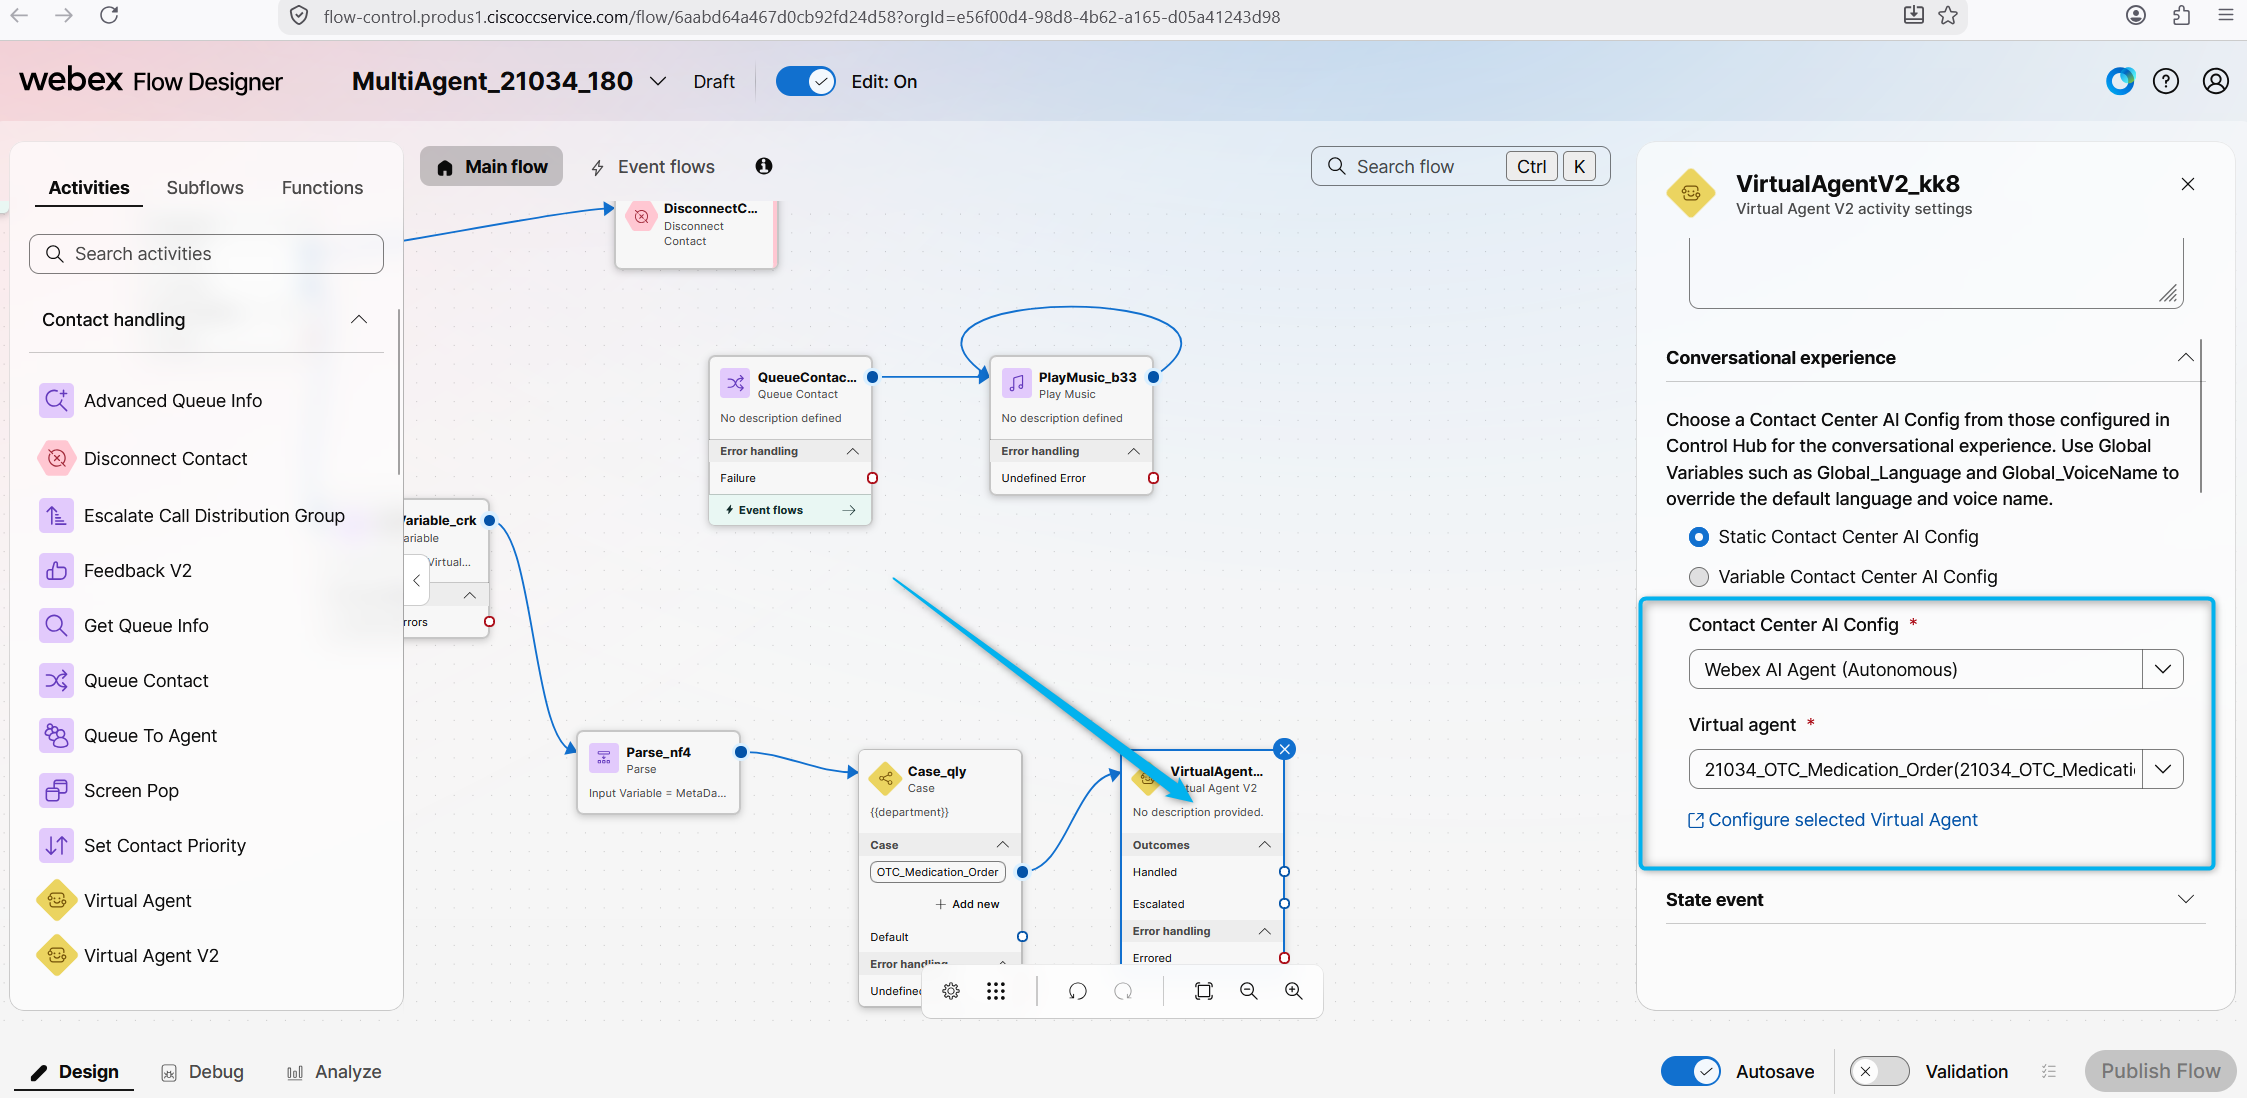
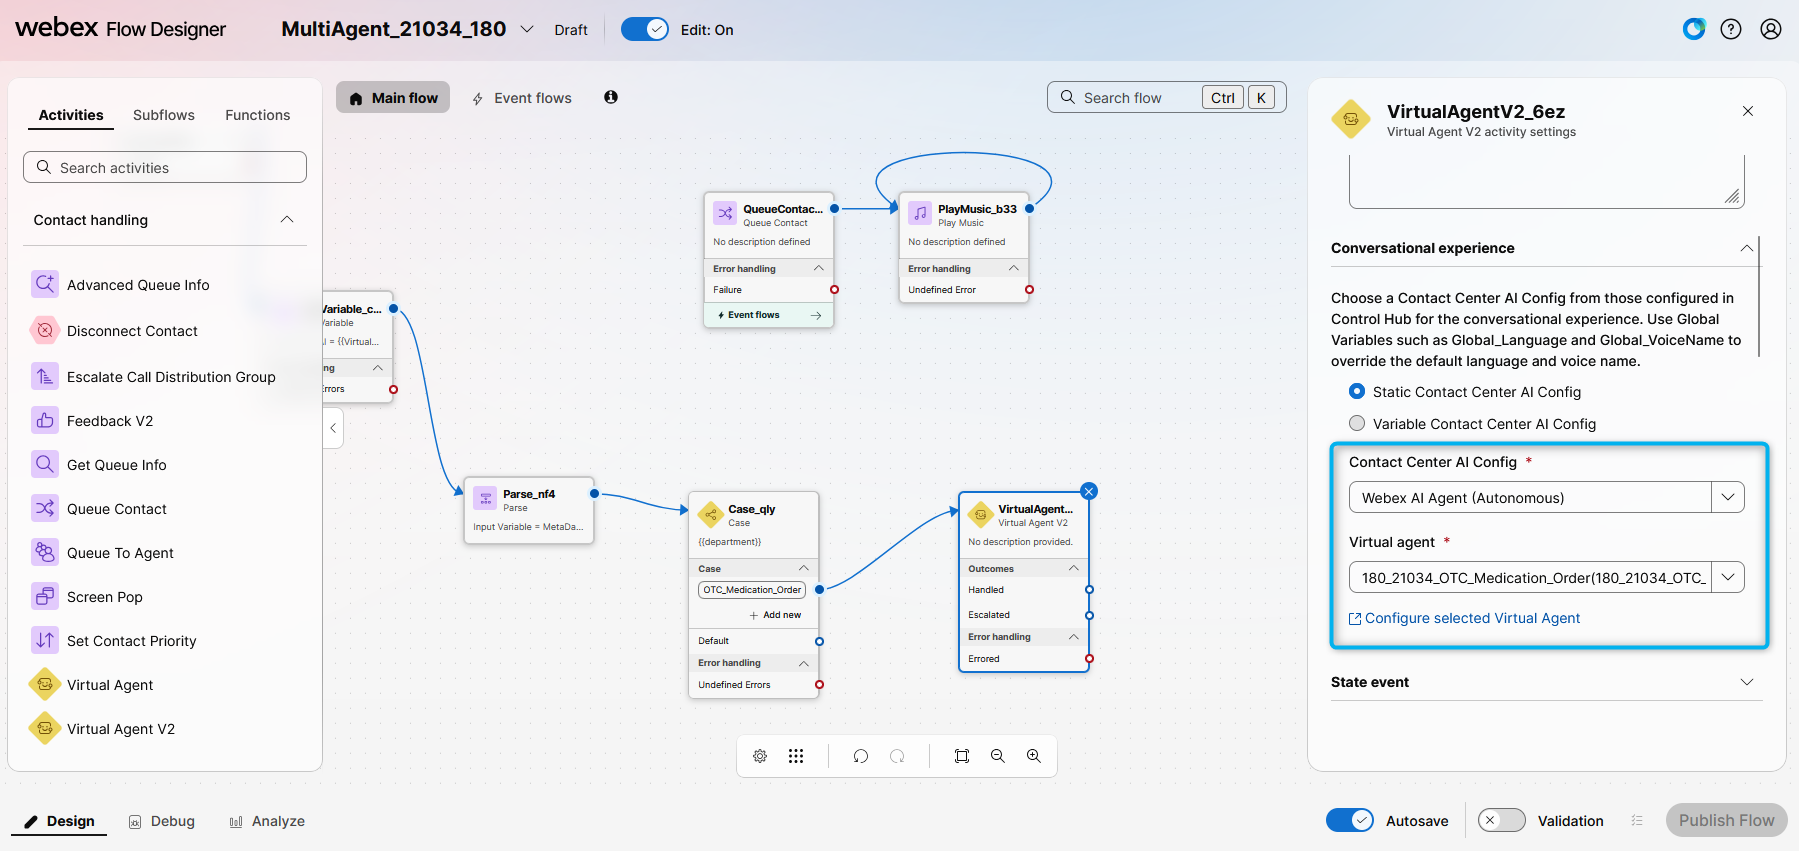
Clarify Multi Agentic Mission 1 copy-agent steps, tests, and attendee agent names.

diff --git a/docs/main/Multi_Agentic_Mission1.md b/docs/main/Multi_Agentic_Mission1.md
@@ -53,16 +53,25 @@ Configure a Transfer action on the **Concierge AI Agent** so that when the calle
 This copy is the second AI Agent in the multi-agent flow. Callers who want to order OTC medication are transferred from the Concierge to this agent.
 
 1. In **Webex AI Agent Studio**, go to **AI Agents**.
+   ![Profiles](../graphics/Lab1_AI_Agent/11.copy_1.gif)
 
-2. Search for the preconfigured Pharmacy Assistant agent **<copy>21034_Pharmacy_Assistant</copy>**.
+2. Search for the preconfigured Pharmacy Assistant agent **<copy>21034_OTC_Medication_Order_Template</copy>** and export the agent.
+   ![Profiles](../graphics/Lab1_AI_Agent/11.copy_2.png)
 
-3. Open the agent menu and select **Copy**.
+3. Click on **Import agent**.
+   ![Profiles](../graphics/Lab1_AI_Agent/11.copy_3.png)
 
-4. Name the copied agent **<copy><w class="attendee"></w>\_21034_OTC_Medication_Order</copy>** and save the copy.
+4. Click on **Upload** and select the file you just downloaded in step 2.
+   ![Profiles](../graphics/Lab1_AI_Agent/11.copy_4.png)
 
-5. Open **<copy><w class="attendee"></w>\_21034_OTC_Medication_Order</copy>** and confirm it is configured to complete OTC medication orders.
+5. Name the copied agent **<copy><w class="attendee"></w>\_21034_OTC_Medication_Order</copy>** and click **Import**.
+   ![Profiles](../graphics/Lab1_AI_Agent/11.copy_5.png)
 
 6. **Publish** the copied agent.
+   ![Profiles](../graphics/Lab1_AI_Agent/11.copy_6.png)
+
+7. (<span style="color: red;"><strong>Read Only</strong></span>) This AI Agent is already preconfigured with a **Fulfillment** action that collects the variables needed for an OTC order. Click **Actions** and open **Create_New_Order** to review it. Do not change this agent. You will reuse this configuration as the second AI Agent in the voice flow.
+   ![Profiles](../graphics/Lab1_AI_Agent/11.copy_7.png)
 
 ### Task 3. Configure voice flow to transfer callers to the OTC Medication Order agent
 
@@ -85,7 +94,7 @@ This copy is the second AI Agent in the multi-agent flow. Callers who want to or
 6. Connect **Set Variable** block to the **Queue** node for now. **Validate** and **Publish** the Flow.
    ![Profiles](../graphics/Lab1_AI_Agent/11.13.gif)
 
-7. Place a test call to the number that is related to your Channel **<copy><w class="attendee"></w>\_21034_Channel</copy>**. During the conversation with the Concierge AI Agent **ask to order OTC medication**. The call should go to the only Queue that is currently configured in the flow.
+7. Place a test call to the number assigned to your Channel **<copy><w class="attendee"></w>\_21034_Channel</copy>**. Talk to the Concierge AI Agent and ask to order OTC medication. For example: **<copy>I need some ibuprofen delivered to my hotel</copy>**. At this point the call should still go to the queue, because the specialist agent is not connected in the flow yet.
 
 8. After the call is completed, click on Debug and review the metadata in the Set Variable block.
    ![Profiles](../graphics/Lab1_AI_Agent/11.14.gif)
@@ -125,7 +134,7 @@ This copy is the second AI Agent in the multi-agent flow. Callers who want to or
 17. Click on this new **VirtualAgentV2** node and select the following:<br>
 
     > Contact Center AI Config: **Webex AI Agent**<br>
-    > Virtual Agent: **<copy>21034_OTC_Medication_Order</copy>**<br>
+    > Virtual Agent: **<copy><w class="attendee"></w>\_21034_OTC_Medication_Order</copy>**<br>
 
     ![Profiles](../graphics/Lab1_AI_Agent/11.21.png)
 
@@ -139,9 +148,9 @@ This copy is the second AI Agent in the multi-agent flow. Callers who want to or
     }
     ```
 
-    Enable this on the **receiving** agent — the new **VirtualAgentV2** node for **21034_OTC_Medication_Order**. Do **not** add it to the Concierge agent's VirtualAgentV2 node.
+    Enable this on the **receiving** agent — the new **VirtualAgentV2** node for **<copy><w class="attendee"></w>\_21034_OTC_Medication_Order</copy>**. Do **not** add it to the Concierge agent's VirtualAgentV2 node.
 
-    This setting is required for **multi-agent orchestration**. When the Concierge transfers the caller, Webex already shares the conversation history with **21034_OTC_Medication_Order**. With `dynamic_welcome_message` set to `true`, that specialist agent **skips its static welcome prompt**, so the caller does not hear a second greeting. The OTC agent continues the same conversation.
+    This setting is required for **multi-agent orchestration**. When the Concierge transfers the caller, Webex already shares the conversation history with **<copy><w class="attendee"></w>\_21034_OTC_Medication_Order</copy>**. With `dynamic_welcome_message` set to `true`, that specialist agent **skips its static welcome prompt**, so the caller does not hear a second greeting. The OTC agent continues the same conversation.
 
     For more details, see [Multi-agent orchestration](https://help.webex.com/en-us/article/5a07xcb/Multi-agent-orchestration){:target="_blank"}.
     > ![Profiles](../graphics/Lab1_AI_Agent/11.21ab.gif)
@@ -158,7 +167,7 @@ This copy is the second AI Agent in the multi-agent flow. Callers who want to or
 22. **Validate** and **Publish** the flow.
     ![Profiles](../graphics/Lab1_AI_Agent/11.26c.gif)
 
-23. Place a test call to the number that is related to your Channel **<copy><w class="attendee"></w>\_21034_Channel</copy>**. During the conversation with the Concierge AI Agent **ask to order OTC medication**. The call should be transferred to the second AI Agent that is already preconfigured to be able to complete OTC order for you. 
+23. Place a test call to the number assigned to your Channel **<copy><w class="attendee"></w>\_21034_Channel</copy>**. Talk to the Concierge AI Agent and ask to order OTC medication. Confirm that the call is transferred to **<copy><w class="attendee"></w>\_21034_OTC_Medication_Order</copy>** and that this second agent can complete the OTC order. 
     ![Profiles](../graphics/Lab1_AI_Agent/11.27.png)
 
 <p style="text-align:center"><strong>Congratulations, you have officially completed this mission! 🎉🎉 </strong></p>
